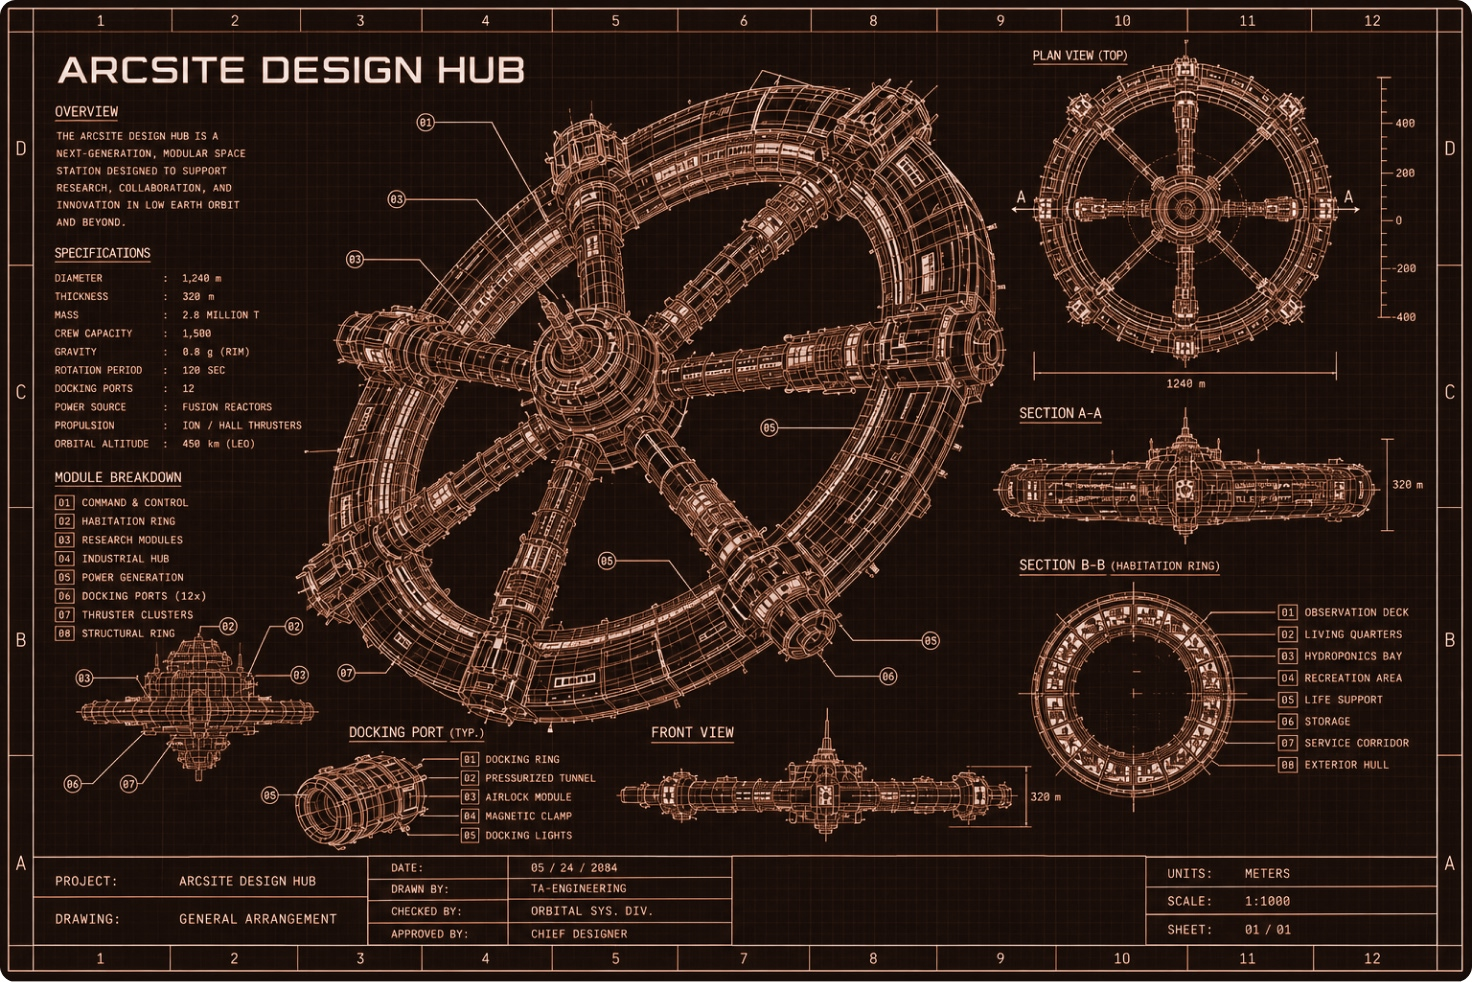
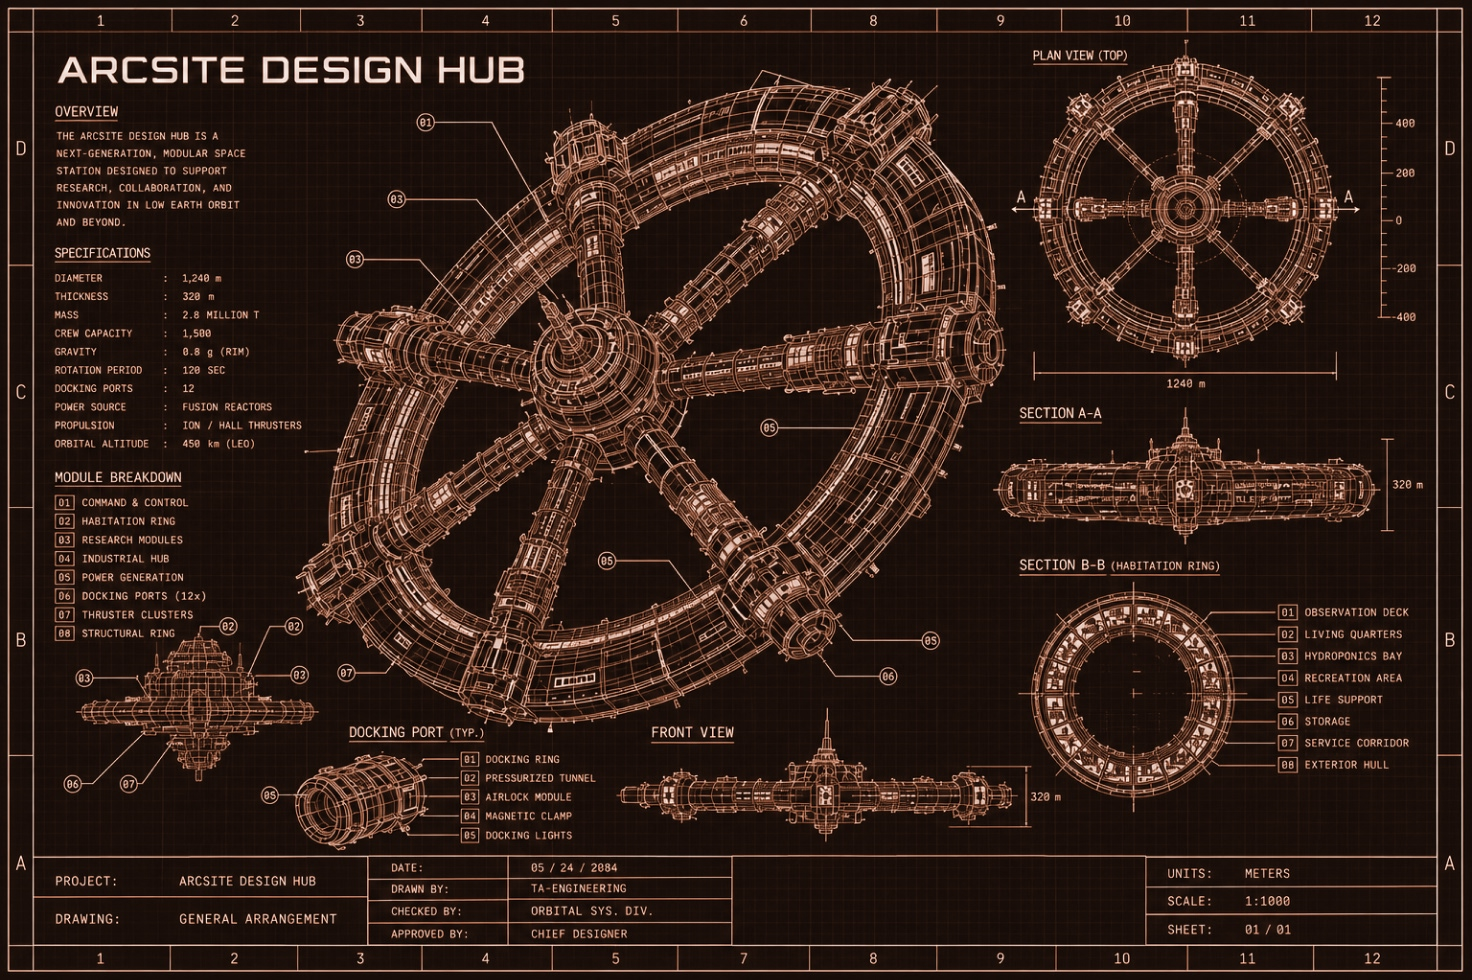
Home hero polish + article colors track theme (#49)
- Refreshed both home hero variants (light + dark JPGs).
- Bumped hero corner radius from --radius (2px) to --radius-card (8px),
  the design-system card-radius token used elsewhere on the home page.
- ArticleRenderer.sanitizeArticleHtml now strips inline color from
  text-content elements so theme tokens always win. The rich-text
  editor's color picker records every choice as an inline style, which
  beats CSS specificity in both modes — invisible in light mode because
  the picked color sat near --foreground, blatant in dark mode where
  near-black text disappears against the dark body (most visible: the
  "Design Hub" pseudo-H1). Font-size and other inline properties are
  preserved. Figcaption + fig-description are exempt because their
  colors are set explicitly via design-system label tokens.
- ChangeLog entry 1.11.1 in defaultChangeLogs.

diff --git a/src/app/store/data-store.tsx b/src/app/store/data-store.tsx
@@ -416,6 +416,22 @@ const defaultChangeLogs: ChangeLogEntry[] = [
   {
     id: uid(),
     date: "2026-05-21",
+    version: "1.11.1",
+    title: "Home hero polish + article colors track theme",
+    description: `Follow-ups to the 1.11.0 rebrand.
+
+**Home hero**
+- Refreshed both light + dark blueprint variants (\`public/home/home-hero-{light,dark}.jpg\`).
+- Bumped corner radius from \`--radius\` (2px) to \`--radius-card\` (8px) — the design-system card-radius token, matching the cards used elsewhere on the home page.
+
+**Article text now follows the theme**
+- The rich-text editor's color picker records every choice as an inline \`style="color: …"\`, which beats CSS specificity in *both* light and dark mode. It just happened to be invisible until dark mode flipped the body and the hardcoded near-black text disappeared against it (most visible: the "Design Hub" pseudo-H1 on the home page).
+- \`ArticleRenderer.sanitizeArticleHtml\` now strips inline \`color\` from text-content elements (\`h1-h6, p, span inside p, li, span inside li, strong, em, a\`). Font-size and other inline properties are preserved (e.g., the user's chosen 34px sizing for the home-page "Design Hub" still applies). Figcaption + fig-description are exempt — we set their colors explicitly via design-system label tokens just above.
+- Side-effect to be aware of: if an author intentionally used the color picker to set a non-foreground accent (e.g., red on a word), that accent will now also be neutralized. If accent colors matter, the next iteration would parse the value and only strip near-foreground shades.`,
+  },
+  {
+    id: uid(),
+    date: "2026-05-21",
     version: "1.11.0",
     title: "ArcSite Design Hub — rebrand, new lockup, home hero, CMS image-delete fixes",
     description: `Site identity refresh + a handful of editor papercuts squashed.

diff --git a/src/app/components/shared/ArticleRenderer.tsx b/src/app/components/shared/ArticleRenderer.tsx
@@ -48,6 +48,25 @@ function sanitizeArticleHtml(raw: string): string {
     s.color = "var(--color-label-secondary)";
   });
 
+  // Strip inline `color` from text-content elements so theme tokens always
+  // win. Background: the rich-text editor's color picker records every
+  // choice as an inline style, which beats CSS specificity in BOTH modes —
+  // it just happens to be near-foreground in light mode so the bug is
+  // invisible until dark mode flips the body to dark and the hardcoded
+  // near-black text disappears against it. Font-size / font-weight / other
+  // inline properties are preserved (those represent layout intent that
+  // doesn't break across themes); only `color` is dropped, falling back to
+  // the theme's --foreground / --card-foreground via `.article-content`.
+  // Figcaption + fig-description are exempt because we set their color
+  // explicitly above to design-system label tokens.
+  doc
+    .querySelectorAll("h1, h2, h3, h4, h5, h6, p, p span, li, li span, strong, em, a")
+    .forEach((el) => {
+      const html = el as HTMLElement;
+      if (html.closest("figcaption, [data-role='fig-description']")) return;
+      if (html.style.color) html.style.removeProperty("color");
+    });
+
   return doc.body.innerHTML;
 }
 

diff --git a/src/app/pages/HomePage.tsx b/src/app/pages/HomePage.tsx
@@ -38,12 +38,12 @@ export function HomePage() {
       <img
         src={HOME_HERO_LIGHT}
         alt="ArcSite Design Hub — blueprint schematic"
-        className="block dark:hidden w-full h-auto rounded-[var(--radius)] mb-8"
+        className="block dark:hidden w-full h-auto rounded-[var(--radius-card)] mb-8"
       />
       <img
         src={HOME_HERO_DARK}
         alt="ArcSite Design Hub — blueprint schematic"
-        className="hidden dark:block w-full h-auto rounded-[var(--radius)] mb-8"
+        className="hidden dark:block w-full h-auto rounded-[var(--radius-card)] mb-8"
       />
 
       {/* Article Section */}
@@ -77,7 +77,7 @@ export function HomePage() {
                     onClick={() => hasDescription && toggle(entry.id)}
                     aria-expanded={isOpen}
                     aria-controls={`changelog-body-${entry.id}`}
-                    className={`w-full text-left rounded-[var(--radius)] -mx-2 px-2 py-1 transition-colors ${
+                    className={`w-full text-left rounded-[var(--radius-card)] -mx-2 px-2 py-1 transition-colors ${
                       hasDescription
                         ? "cursor-pointer hover:bg-muted/40"
                         : "cursor-default"
